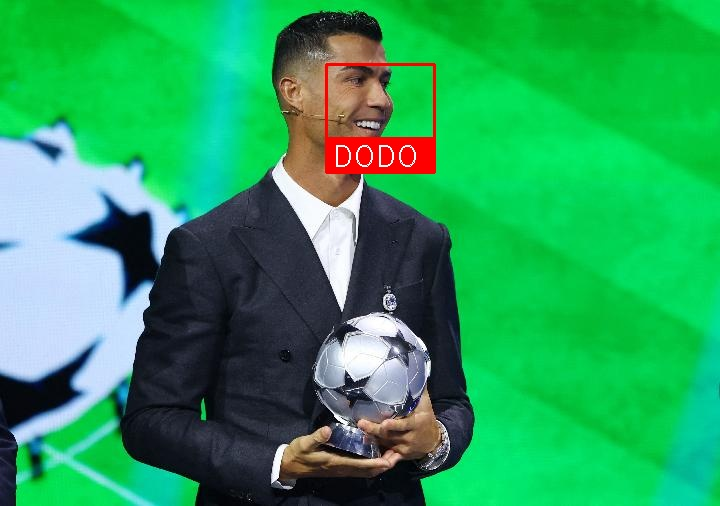
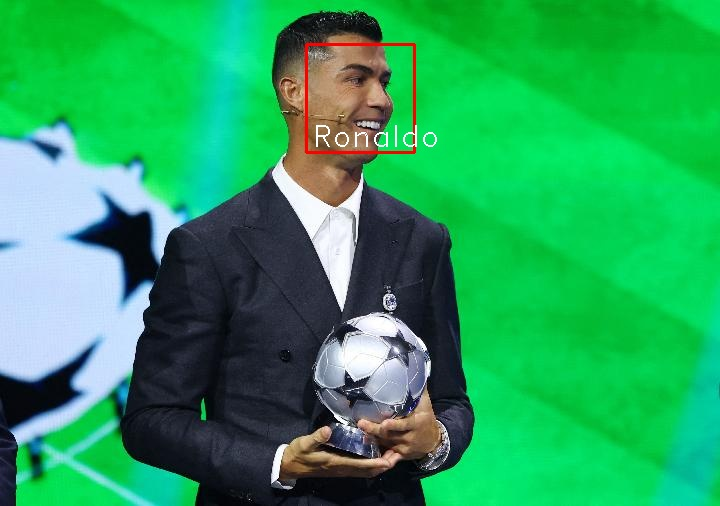
update

Changed region(s): [[0.3972, 0.0593, 0.6111, 0.3557]]

diff --git a/main.py b/main.py
@@ -1,40 +1,38 @@
-import datetime
 import cv2
 import face_recognition
 
-#load sample image
+# Memuat gambar contoh dan meng-encode-nya
 # sample_image = face_recognition.load_image_file("./images/messi.jpg")
 sample_image = face_recognition.load_image_file("./images/ronaldo.jpg")
 sample_image_encoded = face_recognition.face_encodings(sample_image)[0]
 
-# Load input image
+# Memuat gambar input
 image = cv2.imread("./input.jpg")
 
-# Convert to RGB
+# Mengonversi ke RGB
 rgb_image = cv2.cvtColor(image, cv2.COLOR_BGR2RGB)
 
-# Find faces
+# Menemukan wajah dalam gambar input
 face_locations = face_recognition.face_locations(rgb_image)
 face_encodings = face_recognition.face_encodings(rgb_image, face_locations)
 
-# Loop through faces
-for face_encoding in face_encodings :
-    # Compare faces
+# Melakukan loop untuk setiap wajah yang ditemukan
+for face_encoding in face_encodings:
+    # Membandingkan wajah dengan gambar contoh
     results = face_recognition.compare_faces([sample_image_encoded], face_encoding)
 
-    # Print results
     if results[0]:
-        # Display image
-        for (top, right, bottom, left), name in zip(face_locations, "DODO".split()):
+        # Jika ditemukan kecocokan, gambarkan persegi di sekitar wajah
+        for (top, right, bottom, left) in face_locations:
             cv2.rectangle(image, (left, top), (right, bottom), (0, 0, 255), 2)
 
-            cv2.rectangle(image, (left, bottom - 35), (right, bottom), (0, 0, 255), cv2.FILLED)
+            # Menambahkan label
             font = cv2.FONT_HERSHEY_DUPLEX
-            cv2.putText(image, name, (left + 6, bottom - 6), font, 1.0, (255, 255, 255), 1)
+            cv2.putText(image, "Ronaldo", (left + 6, bottom - 6), font, 1.0, (255, 255, 255), 1)
 
-            # Save image
-            cv2.imwrite("./output.jpg", image)
+        # Menyimpan gambar hasil
+        cv2.imwrite("./output.jpg", image)
 
-        print("Found face")
+        print("Wajah ditemukan")
     else:
-        print("Not found")
+        print("Wajah tidak ditemukan")
